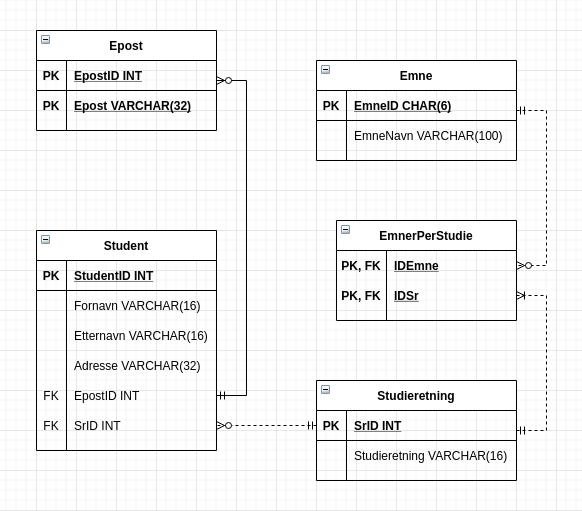
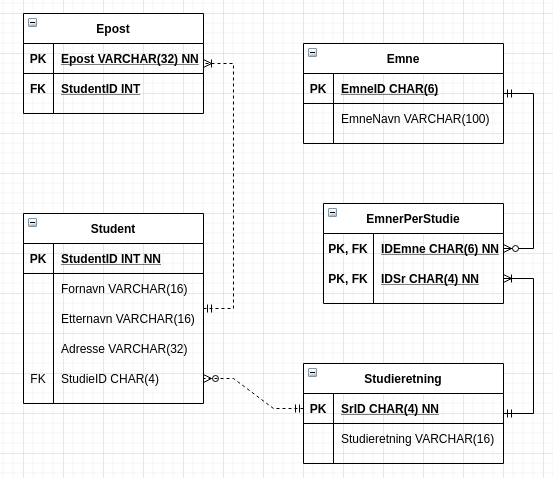
Update

diff --git a/databaser/økt-8/oppgaver.md b/databaser/økt-8/oppgaver.md
@@ -7,22 +7,139 @@ neste deloppgave.)
     ![Høyskole](høyskole-oppgave5.png)
 
 6.  Implementer tabellene i MySQL! (Lag en ny database/schema: hskole.)  
-    `CREATE DATABASE Høyskole;`
 
     ```sql
-    CREATE TABLE Student (
-        StudentID INT PRIMARY KEY,
-        Fornavn VARCHAR(16),
-        Etternavn VARCHAR(16),
-        Adresse VARCHAR(32),
-        EpostID INT,
-        SrID INT,
-        FOREIGN KEY (EpostID) REFERENCES Epost(EpostID),
-        FOREIGN KEY (SrID) REFERENCES Studieretning(SrID)
-    );
+    -- MySQL Script generated by MySQL Workbench
+    -- Mon 18 Oct 2021 12:41:41 AM CEST
+    -- Model: New Model    Version: 1.0
+    -- MySQL Workbench Forward Engineering
+
+    SET @OLD_UNIQUE_CHECKS=@@UNIQUE_CHECKS, UNIQUE_CHECKS=0;
+    SET @OLD_FOREIGN_KEY_CHECKS=@@FOREIGN_KEY_CHECKS, FOREIGN_KEY_CHECKS=0;
+    SET @OLD_SQL_MODE=@@SQL_MODE, SQL_MODE='ONLY_FULL_GROUP_BY,STRICT_TRANS_TABLES,NO_ZERO_IN_DATE,NO_ZERO_DATE,ERROR_FOR_DIVISION_BY_ZERO,NO_ENGINE_SUBSTITUTION';
+
+    -- -----------------------------------------------------
+    -- Schema Høyskole
+    -- -----------------------------------------------------
+
+    -- -----------------------------------------------------
+    -- Schema Høyskole
+    -- -----------------------------------------------------
+    CREATE SCHEMA IF NOT EXISTS `Høyskole` ;
+    USE `Høyskole` ;
+
+    -- -----------------------------------------------------
+    -- Table `Høyskole`.`Studieretning`
+    -- -----------------------------------------------------
+    CREATE TABLE IF NOT EXISTS `Høyskole`.`Studieretning` (
+    `SrID` CHAR(4) NOT NULL,
+    `Studieretning` VARCHAR(32) NULL,
+    PRIMARY KEY (`SrID`))
+    ENGINE = InnoDB;
+
+
+    -- -----------------------------------------------------
+    -- Table `Høyskole`.`Student`
+    -- -----------------------------------------------------
+    CREATE TABLE IF NOT EXISTS `Høyskole`.`Student` (
+    `StudentID` INT NOT NULL,
+    `Fornavn` VARCHAR(16) NULL,
+    `Etternavn` VARCHAR(16) NULL,
+    `Adresse` VARCHAR(32) NULL,
+    `StudieID` CHAR(4) NOT NULL,
+    PRIMARY KEY (`StudentID`),
+    INDEX `StudieID_idx` (`StudieID` ASC) VISIBLE,
+    CONSTRAINT `StudieID`
+        FOREIGN KEY (`StudieID`)
+        REFERENCES `Høyskole`.`Studieretning` (`SrID`)
+        ON DELETE NO ACTION
+        ON UPDATE NO ACTION)
+    ENGINE = InnoDB;
+
+
+    -- -----------------------------------------------------
+    -- Table `Høyskole`.`Epost`
+    -- -----------------------------------------------------
+    CREATE TABLE IF NOT EXISTS `Høyskole`.`Epost` (
+    `Epost` VARCHAR(32) NOT NULL,
+    `StudentID` INT NULL,
+    PRIMARY KEY (`Epost`),
+    INDEX `StudentID_idx` (`StudentID` ASC) VISIBLE,
+    CONSTRAINT `StudentID`
+        FOREIGN KEY (`StudentID`)
+        REFERENCES `Høyskole`.`Student` (`StudentID`)
+        ON DELETE NO ACTION
+        ON UPDATE NO ACTION)
+    ENGINE = InnoDB;
+
+
+    -- -----------------------------------------------------
+    -- Table `Høyskole`.`Emne`
+    -- -----------------------------------------------------
+    CREATE TABLE IF NOT EXISTS `Høyskole`.`Emne` (
+    `EmneID` CHAR(6) NOT NULL,
+    `EmneNavn` VARCHAR(100) NULL,
+    PRIMARY KEY (`EmneID`))
+    ENGINE = InnoDB;
+
+
+    -- -----------------------------------------------------
+    -- Table `Høyskole`.`EmnerPerStudie`
+    -- -----------------------------------------------------
+    CREATE TABLE IF NOT EXISTS `Høyskole`.`EmnerPerStudie` (
+    `IDEmne` CHAR(6) NOT NULL,
+    `IDSr` CHAR(4) NOT NULL,
+    PRIMARY KEY (`IDEmne`, `IDSr`),
+    INDEX `IDSr_idx` (`IDSr` ASC) VISIBLE,
+    CONSTRAINT `IDEmne`
+        FOREIGN KEY (`IDEmne`)
+        REFERENCES `Høyskole`.`Emne` (`EmneID`)
+        ON DELETE NO ACTION
+        ON UPDATE NO ACTION,
+    CONSTRAINT `IDSr`
+        FOREIGN KEY (`IDSr`)
+        REFERENCES `Høyskole`.`Studieretning` (`SrID`)
+        ON DELETE NO ACTION
+        ON UPDATE NO ACTION)
+    ENGINE = InnoDB;
+
+
+    SET SQL_MODE=@OLD_SQL_MODE;
+    SET FOREIGN_KEY_CHECKS=@OLD_FOREIGN_KEY_CHECKS;
+    SET UNIQUE_CHECKS=@OLD_UNIQUE_CHECKS;
     ```
 
-7.  Registrer følgende emner-id /tittel: (legg gjerne til flere emner selv!)
+7.  Registrer følgende emner - id / tittel:
     - DS1337 / Fett design
-    - PG1011 / Binær programmering 
+    - PG1011 / Binær programmering
     - PJ1234 / Grunnleggende prosjekt
+
+    ```sql
+    INSERT INTO Emne(EmneID, EmneNavn)
+    VALUES
+        ('DS1337', 'Fett design'),
+        ('PG1011', 'Binær programmering'),
+        ('PJ1234', 'Grunnleggende prosjekt')
+    ;
+    ```
+
+8.  Registrer 2 studieretninger: Dynamisk Design og Pragmatisk Programmering.  
+    Lag koplinger mellom studieretninger og emner slik at resultatet blir:
+    - Ved Pragmatisk Programmering undervises det i PJ1234 og PG1011.
+    - Ved Dynamisk Design undervises det i PJ1234 og DS1337.
+
+    Legge til studieretninger:
+
+    ```sql
+    INSERT INTO Studieretning(SrID, Studieretning)
+    VALUES
+        ('DyDe', 'Dynamisk Design'),
+        ('PrPr', 'Pragmatisk Programmering')
+    ;
+    ```
+
+    Kople sammen studieretninger og emner:
+
+    ```sql
+    
+    ```
